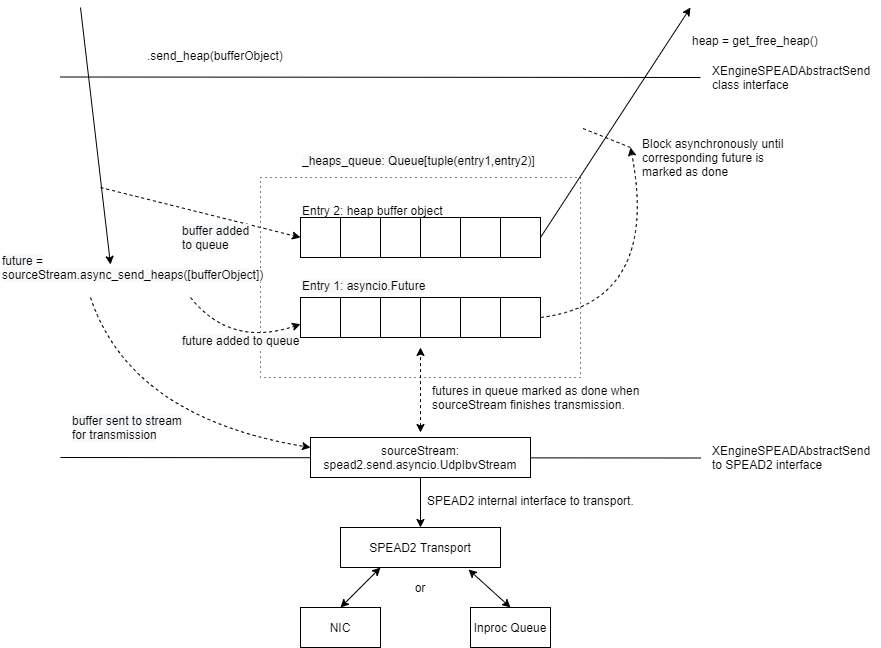
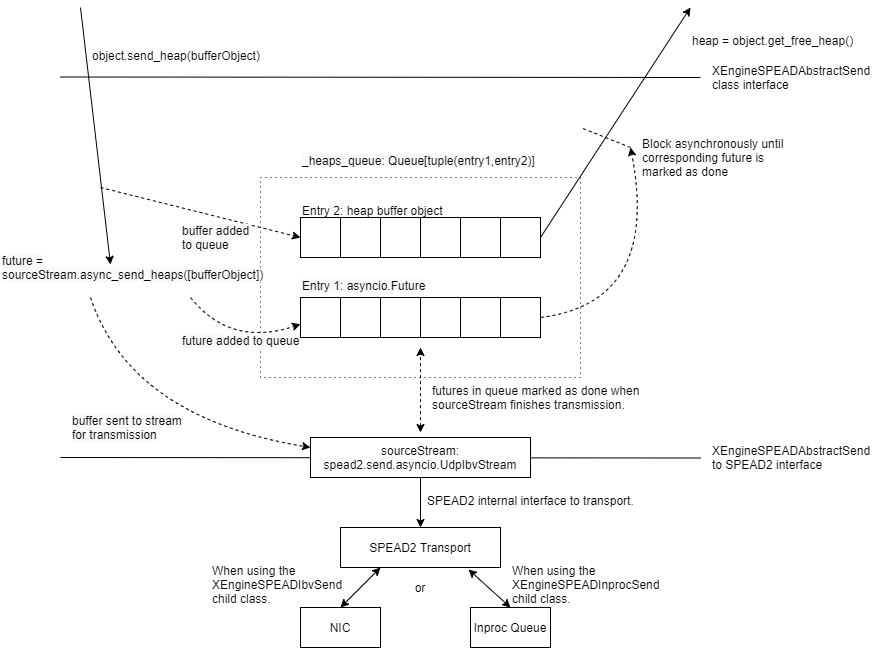
More comments to the README.md

diff --git a/src/katgpucbf/xbgpu/_katxgpu/README.md b/src/katgpucbf/xbgpu/_katxgpu/README.md
@@ -244,9 +244,35 @@ within a buffer. The unit test can be found [here](../test/spead2_receiver_test.
 
 ## 3. Sender
 
+The X-Engine transmit code can be found in the [xsend.py](./katxgpu/xsend.py) file in the katxgpu/katxgpu subfolder.
+Unlike the receiver logic, the sender logic just makes use of the normal SPEAD2 python code - no custom C++ bindings are
+required. The X-Engine implements accumulation and drastically reduces data rates. A heap is sent out on the order of 
+seconds, not milliseconds, and as such no chunking is required to manage these rates.
+
+The [xsend.py](./katxgpu/xsend.py) module defines a number of classes to deal with transmission. The main parent class
+for these classes is called the `XEngineSPEADAbstractSend` class. 
+
+The image below gives conceptual overview of how the katxgpu receive code is implemented:
+
 ![Sender](./katxgpu_sender.png)
 
-TODO: Sender logic still needs to be implemented. This section will be updated once this has occured.
+The above diagram shows how the receiver module is broken up into three main layers:
+1. XEngineSPEADAbstractSend class - This is the interface to the sender module. Once the program is running,
+the main processing loop will request free buffers (`get_free_heap()`) from the xsend module, populate the buffers and
+then tell the module to send these buffers(`send_free_heap()`). The sending happens asynchronously but the xsend class
+ensures that buffers are not recycled until they are sent.
+2. XEngineSPEADAbstractSend internal workings - This class manages a queue of buffers being sent on the network in an
+asynchronous manner. Each buffer has an associated future. This class monitors the futures when more buffer resources
+are requested by the main processing loop and will only return a free buffer when the corresponding resource is marked
+as done.
+3. SPEAD2 sourceStream - The XEngineSPEADAbstractSend creates a SPEAD2 send stream object. Every buffer passed to the
+XEngineSPEADAbstractSend object is given to this sourceStream. The sourceStream object encapsulates the buffer 
+object into a SPEAD heap and sends it out onto the network (in the normal case). It returns a future that will be
+marked as done once the transmission is complete.
+
+## 3.1 Unit Tests
+
+The unit test for the send object can [here](../test/spead2_sender_test.py)
 
 ## 4. Peerdirect Support
 
